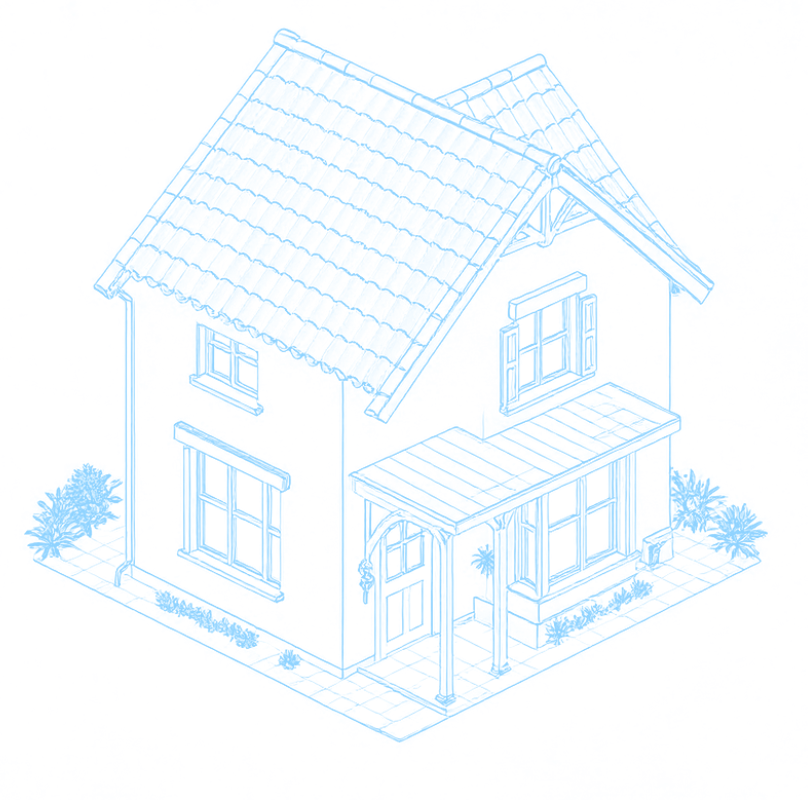
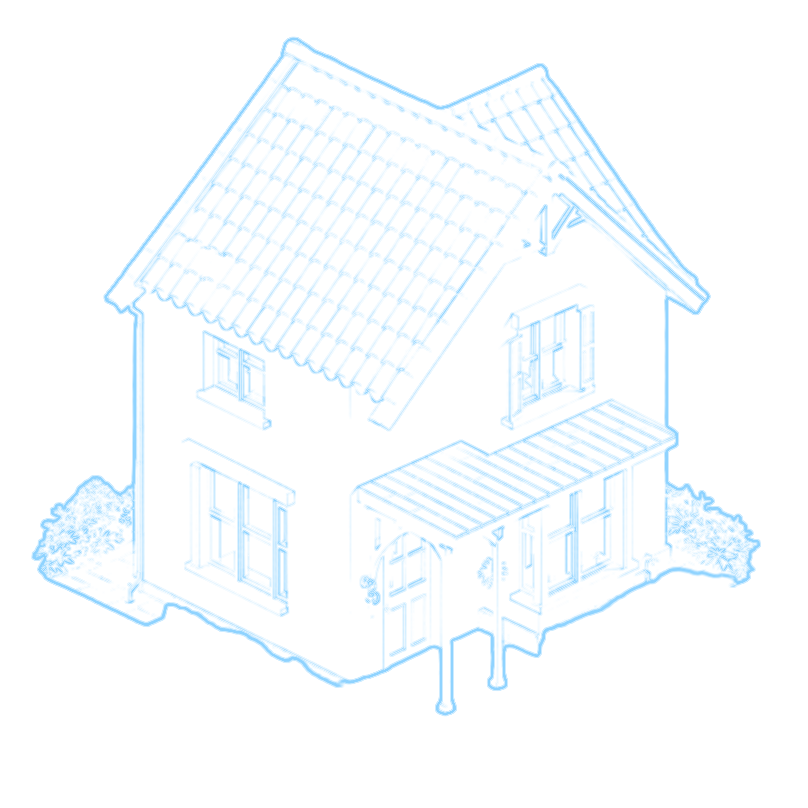
Fix Blueprint r3 re-gate blockers (r4)
- One master geometry: linework and frame layers are derived from the
  built master render (edges -> drafting cyan; same house in raw timber),
  so every Blueprint state shares one silhouette. house_iou.py: lines
  0.984, frame 1.000 vs the master (plinth-normalised).
- House only ever gains: the construction mask animates its edge
  geometry (Animatable) instead of crossfading gradients, and growth is
  critically damped with max(). measure_confirm.py shows no regression.
- To-confirm rows are fixed height in concepts, so the card CTA stays
  above the tab-bar inset in every state (44-48 pt visible throughout).
- Clapboard enters from above inside the illustration bounds.
- Hatched suggestions in pale timber, distinct from the cyan drawing.
- Roof crossfades timber-frame render -> built render (no off-token mix).
- Neutral 'Scheduled', blueprint Live Activity wallpaper, 16 pt empty
  inset, Inbox meta uses the free width.

Changed region(s): [[0.0309, 0.0309, 0.9592, 0.9282]]

diff --git a/DesignSandbox/BlueprintHouse.swift b/DesignSandbox/BlueprintHouse.swift
@@ -44,9 +44,9 @@ struct BlueprintHouse: View {
                     .opacity(hours >= 500 && roofFill >= 1 ? 0.55 : 1)
                 if hatchHours > hours {
                     // Suggestions: hatched in drafting cyan, never solid.
-                    built.opacity(0.16).mask(FeatherMask(y: hy, feather: 0.02))
+                    built.opacity(0.14).mask(FeatherMask(y: hy, feather: 0.02))
                     Hatch()
-                        .stroke(BP.drafting, lineWidth: 1.6)
+                        .stroke(BP.suggested, lineWidth: 1.6)
                         .mask(built)
                         .mask(FeatherMask(y: hy, feather: 0.015))
                 }
@@ -56,9 +56,12 @@ struct BlueprintHouse: View {
                 }
                 built.mask(FeatherMask(y: by, feather: 0.028))
                 if hours >= 500 {
-                    built.mask(TopCut(y: BlueprintHouse.eave, keepAbove: true))
-                        .opacity(roofFill)
-                        .offset(y: roofDrop)
+                    ZStack {
+                        frame.mask(TopCut(y: BlueprintHouse.eave, keepAbove: true))
+                        built.mask(TopCut(y: BlueprintHouse.eave, keepAbove: true))
+                            .opacity(roofFill)
+                    }
+                    .offset(y: roofDrop)
                 }
                 Rectangle()
                     .fill(LinearGradient(colors: [BP.timber.opacity(0), BP.window, BP.timber.opacity(0)], startPoint: .leading, endPoint: .trailing))
@@ -146,15 +149,27 @@ struct BlueprintHouse: View {
 
 /// Soft construction wipe: opaque below `y`, fading to clear over `feather` above it.
 /// Applied on top of the render's own alpha, so the reveal follows the house silhouette.
-struct FeatherMask: View {
+struct FeatherMask: View, @MainActor Animatable {
     var y: CGFloat
     var feather: CGFloat
+    // Animate the edge position itself (geometry), never the gradient: interpolating gradient
+    // stops crossfades two masks and momentarily hides built plaster.
+    var animatableData: CGFloat {
+        get { y }
+        set { y = newValue }
+    }
     var body: some View {
-        LinearGradient(stops: [
-            .init(color: .clear, location: max(0, y - feather)),
-            .init(color: .black.opacity(0.55), location: max(0, y - feather * 0.35)),
-            .init(color: .black, location: min(1, y + feather * 0.25)),
-        ], startPoint: .top, endPoint: .bottom)
+        GeometryReader { g in
+            let h = g.size.height
+            VStack(spacing: 0) {
+                Color.clear.frame(height: max(0, (y - feather) * h))
+                LinearGradient(colors: [.clear, .black.opacity(0.6), .black], startPoint: .top, endPoint: .bottom)
+                    .frame(height: feather * 1.2 * h)
+                Color.black
+            }
+            .frame(width: g.size.width, height: h, alignment: .top)
+            .clipped()
+        }
     }
 }
 

diff --git a/DesignSandbox/BlueprintScreens.swift b/DesignSandbox/BlueprintScreens.swift
@@ -72,7 +72,7 @@ struct BlueprintHero: View {
 
                     if let board {
                         Clapboard(label: boardText, tagShown: boardTag)
-                            .frame(width: hs * 0.62, height: 13)
+                            .frame(width: hs * 0.56, height: 13)
                             .scaleEffect(x: 1, y: boardScale)
                             .rotationEffect(.degrees(-6))
                             .position(board)
@@ -94,13 +94,15 @@ struct BlueprintHero: View {
                         }
                         // 1. slide in and settle
                         boardTag = false; boardOpacity = 1; boardScale = 1
-                        board = CGPoint(x: -hs * 0.4, y: lineY - 26)
+                        // Enters from above the house, inside the illustration's bounds (never over the text column).
+                        board = CGPoint(x: houseCX + hs * 0.05, y: lineY - hs * 0.32)
                         withAnimation(.spring(response: 0.42, dampingFraction: 0.68)) { board = CGPoint(x: houseCX, y: lineY) }
                         try? await Task.sleep(for: .milliseconds(320))
                         // 2. land: haptic, tag, the house takes the course, count up
                         landTick += 1
                         withAnimation(.spring(response: 0.25, dampingFraction: 0.6)) { boardTag = true }
-                        withAnimation(.spring(response: 0.5, dampingFraction: 0.82)) { shownHours = new }
+                        // Critically damped: the house only ever gains, never overshoots back.
+                        withAnimation(.spring(response: 0.5, dampingFraction: 1.0)) { shownHours = max(shownHours, new) }
                         withAnimation(.easeOut(duration: 0.15)) { glow = 1 }
                         let from = count, to = Int(new)
                         let steps = max(1, to - from)
@@ -451,7 +453,7 @@ struct BlueprintEmptyHero: View {
                 }
                 .padding(20)
                 Spacer(minLength: 0)
-                EmptyLot().frame(width: 200, height: 200).padding(.trailing, 4).padding(.bottom, 6)
+                EmptyLot().frame(width: 188, height: 188).padding(.trailing, 16).padding(.bottom, 16)
             }
         }
         .frame(height: 300)

diff --git a/DesignSandbox/LockScreenMock.swift b/DesignSandbox/LockScreenMock.swift
@@ -93,11 +93,23 @@ struct Wallpaper: View {
             Color(hex: 0x15123D), Color(hex: 0x2B2270), Color(hex: 0x5A2C55),
             Color(hex: 0x07061A), Color(hex: 0x120F33), Color(hex: 0x3A1A3A),
         ]
+        let blueprintLight: [Color] = [
+            Color(hex: 0x3D63C9), Color(hex: 0x2F55BE), Color(hex: 0x4A78D6),
+            Color(hex: 0x1E3FA6), Color(hex: 0x2A4DB5), Color(hex: 0x3A66C4),
+            Color(hex: 0x132E85), Color(hex: 0x1A3A9C), Color(hex: 0x24489F),
+        ]
+        let blueprintDark: [Color] = [
+            Color(hex: 0x16307F), Color(hex: 0x10276E), Color(hex: 0x1B3A8C),
+            Color(hex: 0x0B1D5A), Color(hex: 0x0F2468), Color(hex: 0x16307F),
+            Color(hex: 0x060F33), Color(hex: 0x0A1645), Color(hex: 0x0E1D52),
+        ]
+        let bp = LHConcept.current == .blueprint
         MeshGradient(width: 3, height: 3,
                      points: [[0, 0], [0.5, 0], [1, 0],
                               [0, 0.5], [0.55, 0.45], [1, 0.55],
                               [0, 1], [0.5, 1], [1, 1]],
-                     colors: scheme == .dark ? dark : light)
+                     colors: bp ? (scheme == .dark ? blueprintDark : blueprintLight) : (scheme == .dark ? dark : light))
+        .overlay { if bp { BlueprintPaper().opacity(0.35).blendMode(.softLight) } }
     }
 }
 

diff --git a/DesignSandbox/ConceptScreens.swift b/DesignSandbox/ConceptScreens.swift
@@ -128,7 +128,8 @@ struct ConceptSuggestionRow: View {
             VStack(alignment: .leading, spacing: 3) {
                 HStack(spacing: 5) {
                     Image(systemName: s.kind.badgeSymbol).font(.system(size: 11, weight: .semibold))
-                    Text("\(s.kind.label) · \(s.when)").lineLimit(1)
+                    Text("\(s.kind.label) · \(s.when)").lineLimit(1).fixedSize(horizontal: false, vertical: true)
+                        .minimumScaleFactor(0.9)
                 }
                 .font(.subheadline).foregroundStyle(LH.secondaryText)
                 Text("\(Text(s.noun).fontWeight(.semibold)) \(s.joiner) \(Text(nbsp(s.property)).fontWeight(.semibold))")
@@ -144,7 +145,8 @@ struct ConceptSuggestionRow: View {
                     Text(s.category.label).font(.subheadline.weight(.medium)).foregroundStyle(BP.material(s.category))
                 }
             }
-            Spacer(minLength: 4)
+            .frame(maxWidth: .infinity, alignment: .leading)
+            .layoutPriority(1)
             ConceptPropertyThumb(prop: Prop.named(s.property), size: 40)
         }
         .padding(.vertical, 12)

diff --git a/DesignSandbox/TodayView.swift b/DesignSandbox/TodayView.swift
@@ -296,10 +296,11 @@ struct CompactSuggestionRow: View {
             VStack(alignment: .leading, spacing: 2) {
                 Text("\(Text(s.noun).fontWeight(.semibold)) \(s.joiner) \(Text(nbsp(s.property)).fontWeight(.semibold))")
                     .font(.body)
-                    .lineLimit(2)
+                    .lineLimit(LHConcept.current == .none ? 2 : 1)
                 Text("\(s.kind.label) · \(s.when)")
                     .font(.subheadline)
                     .foregroundStyle(LH.secondaryText)
+                    .lineLimit(1)
             }
             Spacer(minLength: 8)
             Group {
@@ -313,6 +314,7 @@ struct CompactSuggestionRow: View {
             }
             .font(.body)
             .monospacedDigit()
+            .fixedSize()
             if LHConcept.current != .none {
                 ConceptPropertyThumb(prop: Prop.named(s.property), size: 32)
             } else if LHDirection.current != .baseline {
@@ -320,6 +322,7 @@ struct CompactSuggestionRow: View {
             }
         }
         .padding(.vertical, 10)
+        .frame(height: LHConcept.current == .none ? nil : 62)
     }
 }
 

diff --git a/DesignSandbox/SuggestionDetailSheet.swift b/DesignSandbox/SuggestionDetailSheet.swift
@@ -116,7 +116,7 @@ struct SuggestionDetailSheet: View {
 
     private func statusBand(_ h: Double) -> some View {
         VStack(alignment: .leading, spacing: 4) {
-            Text("Scheduled \(Text(fmtDur(h)).foregroundStyle(LH.positive))")
+            Text("Scheduled \(Text(fmtDur(h)).foregroundStyle(.primary))")
                 .font(.title3.weight(.semibold))
             Text("Your calendar had this from 9:00 to 11:00. Change it if the work ran long or short.")
                 .font(.subheadline)

diff --git a/DesignSandbox/ConceptCore.swift b/DesignSandbox/ConceptCore.swift
@@ -45,6 +45,8 @@ enum BP {
     static let plasterShade = Color(hex: 0xDCD3C3)
     static let brass = Color(hex: 0xD9B45A)
     static let window = Color(hex: 0xFFD27A)
+    /// Hatched suggestions: pale timber (hours waiting to be placed), never the cyan of the drawing.
+    static let suggested = Color(hex: 0xF5C98E)
     static let glass = Color(hex: 0x2B3B66)
     static let slate = Color(hex: 0x5A6B8C)
     static let concrete = Color(hex: 0xA7AFBF)

diff --git a/scripts/design-sandbox/import_art_r3.py b/scripts/design-sandbox/import_art_r3.py
@@ -92,6 +92,39 @@ def register_lines(N=300):
     print(f'linework registered: scale {s:.4f}, shift ({dx * full / N:.0f}, {dy * full / N:.0f}) px')
 
 
+def derive_from_master():
+    built = Image.open(os.path.join(DST, 'bp-house-built.png')).convert('RGBA')
+    a = np.asarray(built).astype(float)
+    alpha = a[..., 3] / 255
+    lum = (0.299 * a[..., 0] + 0.587 * a[..., 1] + 0.114 * a[..., 2]) * alpha
+
+    def sobel(x):
+        gy, gx = np.gradient(x)
+        return np.hypot(gx, gy)
+
+    # Linework: luminance edges inside the house + the silhouette outline, as drafting cyan.
+    e = sobel(lum) + sobel(alpha * 255) * 0.9
+    e = e / np.percentile(e[alpha > 0.5], 99.3)
+    line_a = np.clip((e - 0.18) * 1.9, 0, 1)
+    # slight thicken: max of 3x3 neighbourhood
+    pad = np.pad(line_a, 1)
+    thick = np.max([pad[dy:dy + line_a.shape[0], dx:dx + line_a.shape[1]] for dy in range(3) for dx in range(3)], axis=0)
+    line_a = np.clip(0.55 * line_a + 0.45 * thick, 0, 1)
+    rgba = np.zeros_like(a)
+    rgba[..., 0], rgba[..., 1], rgba[..., 2] = 0x8F, 0xD3, 0xFF
+    rgba[..., 3] = line_a * 255
+    Image.fromarray(rgba.astype(np.uint8)).save(os.path.join(DST, 'bp-house-lines.png'), optimize=True)
+
+    # Frame: the same house in raw timber (sheathing going up), darker grain on the edges.
+    t = np.clip(lum / np.maximum(alpha, 1e-3) / 255, 0, 1)
+    lo, hi = np.array([0x8A, 0x5A, 0x2C], float), np.array([0xF2, 0xC6, 0x8A], float)
+    wood = lo + (hi - lo) * t[..., None]
+    wood = wood * (1 - 0.35 * np.clip(e, 0, 1)[..., None])
+    fr = np.dstack([np.clip(wood, 0, 255), a[..., 3]])
+    Image.fromarray(fr.astype(np.uint8)).save(os.path.join(DST, 'bp-house-frame.png'), optimize=True)
+    print('lines + frame derived from the built master')
+
+
 def crop_to(im, box, size):
     out = im.crop(box)
     out.thumbnail((size, size), Image.LANCZOS)
@@ -130,7 +163,9 @@ if os.path.exists(os.path.join(bp, 'house_master.png')):
     print('house box', box, 'opaque extent y', y0, y1, 'fraction in box', (y0 - box[1]) / side, (y1 - box[1]) / side)
     for k, l in layers.items():
         crop_to(l, box, 900).save(os.path.join(DST, k + '.png'), optimize=True)
-    register_lines()
+    # One master geometry: linework and frame are DERIVED from the built master, so every
+    # Blueprint state (Today, Welcome, milestone, Live Activity) shares one silhouette.
+    derive_from_master()
 
 objects = {
     'empty_lot_stake': 'bp-empty-lot', 'plaque_blank': 'bp-plaque-blank', 'rolled_blueprint_tools': 'bp-rolled-blueprint',

diff --git a/scripts/design-sandbox/house_iou.py b/scripts/design-sandbox/house_iou.py
@@ -1,0 +1,54 @@
+"""Silhouette IoU between the Blueprint house layers, normalised to plinth width.
+
+Each layer's alpha (linework is filled into a solid silhouette) is cropped to its plinth's
+horizontal extent, scaled so the plinth is 400px wide, aligned on the plinth's bottom-centre,
+and compared with the built master. Usage: python3 house_iou.py [art_dir]
+"""
+import os
+import sys
+import numpy as np
+from PIL import Image, ImageFilter, ImageDraw
+
+ART = sys.argv[1] if len(sys.argv) > 1 else os.path.join(os.path.dirname(__file__), '..', '..', 'DesignSandbox', 'Art')
+
+
+def silhouette(name, fill=False):
+    a = Image.open(os.path.join(ART, name + '.png')).convert('RGBA').getchannel('A')
+    m = a.point(lambda v: 255 if v > 60 else 0)
+    if fill:
+        # close the line drawing, then flood the outside; everything not outside is the silhouette
+        m = m.filter(ImageFilter.MaxFilter(9)).filter(ImageFilter.MinFilter(5))
+        m = m.convert('L')
+        ImageDraw.floodfill(m, (0, 0), 128, thresh=0)
+        arr = np.asarray(m)
+        m = Image.fromarray(np.where(arr == 128, 0, 255).astype(np.uint8))
+    return np.asarray(m) > 127
+
+
+def normalise(s, W=400, H=480):
+    ys, xs = np.where(s)
+    # plinth = the widest band in the lowest 20% of the shape
+    y0, y1 = ys.min(), ys.max()
+    low = s[int(y1 - (y1 - y0) * 0.2):y1 + 1]
+    cols = np.where(low.any(axis=0))[0]
+    px0, px1 = cols.min(), cols.max()
+    scale = W / (px1 - px0 + 1)
+    im = Image.fromarray((s * 255).astype(np.uint8))
+    im = im.resize((int(s.shape[1] * scale), int(s.shape[0] * scale)), Image.NEAREST)
+    out = Image.new('L', (W + 40, H), 0)
+    cx = (px0 + px1) / 2 * scale
+    out.paste(im, (int(round((W + 40) / 2 - cx)), int(round(H - 10 - y1 * scale))))
+    return np.asarray(out) > 127
+
+
+def iou(a, b):
+    return (a & b).sum() / max(1, (a | b).sum())
+
+
+built = normalise(silhouette('bp-house-built'))
+res = {}
+for name, fill in [('bp-house-lines', True), ('bp-house-frame', False)]:
+    if os.path.exists(os.path.join(ART, name + '.png')):
+        res[name] = iou(built, normalise(silhouette(name, fill)))
+for k, v in res.items():
+    print(f'{k:16s} IoU vs built master: {v:.3f} {"PASS" if v >= 0.95 else "FAIL"}')

diff --git a/scripts/design-sandbox/measure_confirm.py b/scripts/design-sandbox/measure_confirm.py
@@ -1,0 +1,31 @@
+"""Measure Blueprint confirm frames: plaster pixels in the hero house (must never drop) and the
+visible height of the card CTA pill above the tab bar. usage: measure_confirm.py <frames_dir>"""
+import glob, os, re, sys
+import numpy as np
+from PIL import Image
+
+D = sys.argv[1]
+for ap in ['light', 'dark']:
+    fs = sorted(glob.glob(f'{D}/confirm-*s-{ap}.png'), key=lambda f: float(re.search(r'confirm-([\d.]+)s', f).group(1)))
+    prev = None
+    print(f'--- {ap}')
+    for f in fs:
+        a = np.asarray(Image.open(f).convert('RGB')).astype(int)
+        H, W = a.shape[:2]
+        # hero house region (right 60% of the hero card): plaster = warm cream
+        hero = a[int(H * 0.20):int(H * 0.56), int(W * 0.40):int(W * 0.96)]
+        r, g, b = hero[..., 0], hero[..., 1], hero[..., 2]
+        # built material = warm pixels (plaster, timber, terracotta); blueprint paper and cyan lines are blue-dominant
+        plaster = int(((r - b) > 25).sum())
+        # CTA pill: rows where a wide run is the action-wash tint, above the bottom 12% (tab bar zone)
+        if ap == 'light':
+            pill = (np.abs(a[..., 0] - 233) < 10) & (np.abs(a[..., 1] - 231) < 10) & (a[..., 2] > 243)
+        else:
+            pill = (np.abs(a[..., 0] - 53) < 14) & (np.abs(a[..., 1] - 50) < 14) & (np.abs(a[..., 2] - 96) < 18)
+        rows = np.where(pill.sum(axis=1) > W * 0.5)[0]
+        rows = rows[(rows > H * 0.62) & (rows < H * 0.88)]   # the card CTA band, above the tab bar zone
+        vis = len(rows) / 3
+        t = re.search(r'confirm-([\d.]+)s', f).group(1)
+        flag = '' if prev is None or plaster >= prev * 0.98 else '  <-- DROP'
+        print(f'{t:>5}s plaster={plaster:6d}{flag}   CTA pill visible ≈ {vis:4.0f} pt')
+        prev = plaster
